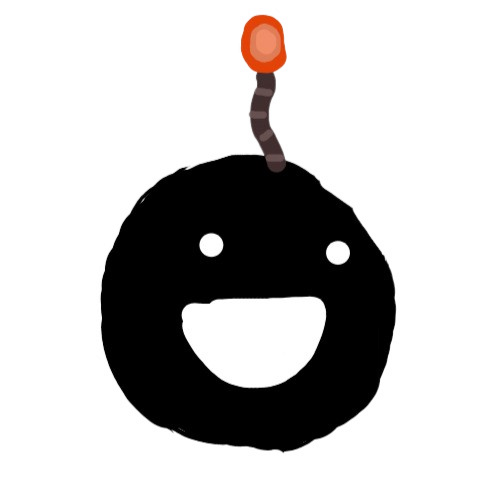
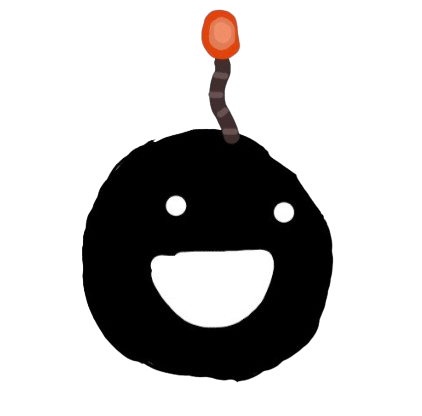
.

diff --git a/frontend/src/pages/Game.tsx b/frontend/src/pages/Game.tsx
@@ -1,14 +1,13 @@
-import React, { useEffect, useState } from "react";
+import React, { useEffect, useState, useRef } from "react";
 import { useNavigate, useSearchParams } from "react-router";
 import { GameCanvas } from "../components/GameCanvas";
 import { Leaderboard, type ScoreEntry } from "../components/Leaderboard";
-import { LivesDisplay } from "../components/LivesDisplay";
 import { settingsStore } from "../store/settingsStore";
 import { profileStore } from "../store/profileStore";
 import { useAuth } from "../hooks/useAuth";
 import { supabase } from "../lib/supabase";
 import { loadFruitAssets, FOOD_KEYS } from "../game/FruitAssets";
-import { setSpawnQueue, startMatch, setPhase, getLocalScore, getLocalLives, getCombo } from "../store/gameStore";
+import { setSpawnQueue, startMatch, setPhase, getLocalScore, getCombo } from "../store/gameStore";
 import type { SpawnEvent } from "../types/game";
 
 const START_GAP_MS = 3000;
@@ -32,9 +31,12 @@ export function Game({ bombWarning = false }: GameProps) {
   const lobbyId = searchParams.get("lobbyId") ?? "";
 
   const [scores, setScores] = useState<ScoreEntry[]>([]);
-  const [myLives, setMyLives] = useState(3);
   const [myScore, setMyScore] = useState(0);
   const [combo, setCombo] = useState(0);
+  const [comboKey, setComboKey] = useState(0);
+  const [scoreKey, setScoreKey] = useState(0);
+  const prevComboRef = useRef(0);
+  const prevScoreRef = useRef(0);
   const duration = settingsStore.get().gameDuration;
   const [timeRemaining, setTimeRemaining] = useState(duration);
 
@@ -47,7 +49,7 @@ export function Game({ bombWarning = false }: GameProps) {
     if (!lobbyId) return;
     const { data: lps } = await supabase
       .from("lobby_players")
-      .select("player_id, score, lives, eliminated_at")
+      .select("player_id, score, eliminated_at")
       .eq("lobby_id", lobbyId)
       .order("score", { ascending: false });
     if (!lps?.length) return;
@@ -69,14 +71,12 @@ export function Game({ bombWarning = false }: GameProps) {
       rank: i + 1,
       name: nameMap[lp.player_id] ?? "Unknown",
       score: lp.score,
-      hearts: lp.lives,
       dead: lp.eliminated_at !== null,
       avatarUrl: avatarMap[lp.player_id] ?? null,
     }));
     setScores(entries);
     const mine = entries.find((e) => e.id === playerId);
     if (mine) {
-      setMyLives(mine.hearts);
       setMyScore(mine.score);
     }
   }
@@ -145,11 +145,24 @@ export function Game({ bombWarning = false }: GameProps) {
   useEffect(() => {
     const id = setInterval(() => {
       setMyScore(getLocalScore());
-      setMyLives(getLocalLives());
       setCombo(getCombo());
     }, 100);
     return () => clearInterval(id);
   }, []);
+
+  useEffect(() => {
+    if (!lobbyId || !playerId) return;
+    const id = setInterval(async () => {
+      const score = getLocalScore();
+      const { error } = await supabase
+        .from('lobby_players')
+        .update({ score })
+        .eq('lobby_id', lobbyId)
+        .eq('player_id', playerId);
+      if (error) console.error('[score-sync] update failed:', error.message);
+    }, 2000);
+    return () => clearInterval(id);
+  }, [lobbyId, playerId]);
 
   useEffect(() => {
     const id = setInterval(() => {
@@ -166,6 +179,16 @@ export function Game({ bombWarning = false }: GameProps) {
   // eslint-disable-next-line react-hooks/exhaustive-deps
   }, []);
 
+  useEffect(() => {
+    if (combo > prevComboRef.current) setComboKey(k => k + 1);
+    prevComboRef.current = combo;
+  }, [combo]);
+
+  useEffect(() => {
+    if (myScore !== prevScoreRef.current) setScoreKey(k => k + 1);
+    prevScoreRef.current = myScore;
+  }, [myScore]);
+
   // Show self in leaderboard immediately even before DB scores load
   const displayScores: ScoreEntry[] =
     scores.length > 0
@@ -177,13 +200,25 @@ export function Game({ bombWarning = false }: GameProps) {
             rank: 1,
             name: profileStore.get().name || "Player",
             score: myScore,
-            hearts: myLives,
             dead: false,
           },
         ]
       : [];
 
   return (
+    <>
+    <style>{`
+      @keyframes comboPunch {
+        0%   { transform: scale(1.45); opacity: 0.6; }
+        55%  { transform: scale(0.93); opacity: 1;   }
+        100% { transform: scale(1);    opacity: 1;   }
+      }
+      @keyframes scorePunch {
+        0%   { transform: scale(1.35); }
+        55%  { transform: scale(0.96); }
+        100% { transform: scale(1);    }
+      }
+    `}</style>
     <GameCanvas bombWarning={bombWarning} onBomb={handleBomb}>
       {/* Bomb incoming warning banner */}
       {bombWarning && (
@@ -205,12 +240,37 @@ export function Game({ bombWarning = false }: GameProps) {
       </div>
 
       {/* Top Right: Player Stats */}
-      <div className="absolute top-6 right-6 flex flex-col items-end gap-2 z-10">
-        <div className="flex items-center gap-4 bg-black/40 backdrop-blur-md px-6 py-3 rounded-2xl border border-white/10">
-          <LivesDisplay lives={myLives} />
-          <div className="w-px h-8 bg-white/10 mx-2" />
+      <div className="absolute top-6 right-6 flex flex-col items-end gap-1 z-10">
+        {/* Large gradient combo counter */}
+        {combo > 0 && (
+          <div
+            key={comboKey}
+            className="font-black leading-none tracking-tighter select-none"
+            style={{
+              fontSize: '5.5rem',
+              backgroundImage: 'linear-gradient(180deg, #7A6565 0%, #D4AFAF 100%)',
+              WebkitBackgroundClip: 'text',
+              WebkitTextFillColor: 'transparent',
+              backgroundClip: 'text',
+              filter: 'drop-shadow(0 2px 12px rgba(122,101,101,0.55))',
+              animation: 'comboPunch 0.28s cubic-bezier(0.36,0.07,0.19,0.97)',
+            }}
+          >
+            {combo}x
+          </div>
+        )}
+
+        {/* Score box */}
+        <div className="flex items-center bg-black/40 backdrop-blur-md px-6 py-3 rounded-2xl border border-white/10">
           <div className="flex flex-col items-end">
-            <div className="text-4xl font-mono font-black text-white leading-none tracking-tight">
+            <div
+              key={scoreKey}
+              className="text-4xl font-mono font-black leading-none tracking-tight"
+              style={{
+                color: myScore < 0 ? '#ff6b6b' : 'white',
+                animation: 'scorePunch 0.25s ease-out',
+              }}
+            >
               {myScore.toLocaleString()}
             </div>
             <div className="text-xs font-mono text-white/50">score</div>
@@ -223,13 +283,11 @@ export function Game({ bombWarning = false }: GameProps) {
             🍎 <span className="text-white/80">10 + 3×combo</span>
           </div>
           <div className="text-xs font-mono text-white/50">
-            💣 <span className="text-white/80">−1 life</span>
+            💣 hit <span className="text-white/80">−250 pts</span>
           </div>
-          {combo > 0 && (
-            <div className="text-xs font-mono font-bold text-yellow-400">
-              {combo}x combo
-            </div>
-          )}
+          <div className="text-xs font-mono text-white/50">
+            💣 send <span className="text-white/80">75 pts</span>
+          </div>
         </div>
       </div>
 
@@ -252,5 +310,6 @@ export function Game({ bombWarning = false }: GameProps) {
         </button>
       </div>
     </GameCanvas>
+    </>
   );
 }

diff --git a/frontend/src/components/Leaderboard.tsx b/frontend/src/components/Leaderboard.tsx
@@ -1,12 +1,11 @@
 import React from 'react';
-import { Heart, Skull } from 'lucide-react';
+import { Skull } from 'lucide-react';
 
 export interface ScoreEntry {
   id: string;
   rank: number;
   name: string;
   score: number;
-  hearts: number;
   dead?: boolean;
   avatarUrl?: string | null;
 }
@@ -31,7 +30,7 @@ export function Leaderboard({ entries, localPlayerId }: LeaderboardProps) {
   );
 }
 
-function ScoreRow({ rank, name, score, hearts, isYou, dead, avatarUrl }: ScoreEntry & { isYou: boolean }) {
+function ScoreRow({ rank, name, score, isYou, dead, avatarUrl }: ScoreEntry & { isYou: boolean }) {
   return (
     <div
       className={`flex items-center gap-2 px-3 py-2 rounded-xl transition-colors ${
@@ -64,26 +63,10 @@ function ScoreRow({ rank, name, score, hearts, isYou, dead, avatarUrl }: ScoreEn
         {name}
       </span>
 
-      {/* Score + hearts stacked */}
+      {/* Score */}
       <div className="flex flex-col items-end gap-0.5">
         <span className="font-mono text-xs text-white/90">{score.toLocaleString()}</span>
-        <div className="flex gap-0.5">
-          {dead ? (
-            <Skull size={10} className="text-destructive" />
-          ) : (
-            [...Array(3)].map((_, i) => (
-              <Heart
-                key={i}
-                size={8}
-                className={
-                  i < hearts
-                    ? 'fill-primary text-primary'
-                    : 'fill-transparent text-white/20'
-                }
-              />
-            ))
-          )}
-        </div>
+        {dead && <Skull size={10} className="text-destructive" />}
       </div>
     </div>
   );

diff --git a/frontend/src/store/gameStore.ts b/frontend/src/store/gameStore.ts
@@ -20,7 +20,6 @@ const state = {
   phase: 'lobby' as GamePhase,
   lastTick: 0,
   localScore: 0,
-  localLives: 3,
   comboCount: 0,
   lastSliceTime: 0,
 };
@@ -40,13 +39,11 @@ export function startMatch(now: number): void {
   state.popups = [];
   state.phase = 'playing';
   state.localScore = 0;
-  state.localLives = 3;
   state.comboCount = 0;
   state.lastSliceTime = 0;
 }
 
 export function getLocalScore(): number { return state.localScore; }
-export function getLocalLives(): number { return state.localLives; }
 export function getCombo(): number { return state.comboCount; }
 export function getPopups(): ScorePopup[] { return state.popups; }
 
@@ -73,9 +70,9 @@ export function tick(now: number, screen: { w: number; h: number }): Fruit[] {
       const sliceAngle = fruit.collidesWith(trailStore.points, trailStore.canvasW, trailStore.canvasH);
       if (sliceAngle !== null) {
         if (fruit.type === 'bomb') {
-          state.localLives = Math.max(0, state.localLives - 1);
+          state.localScore -= 250;
           state.comboCount = 0;
-          state.popups.push({ x: fruit.x, y: fruit.y, points: -1, startTime: now });
+          state.popups.push({ x: fruit.x, y: fruit.y, points: -250, startTime: now });
         } else {
           state.comboCount += 1;
           const points = 10 + 3 * state.comboCount;

diff --git a/frontend/src/hooks/useGameLoop.ts b/frontend/src/hooks/useGameLoop.ts
@@ -36,8 +36,8 @@ export function useGameLoop(
             ctx.textBaseline = 'middle';
             ctx.shadowColor = 'rgba(0,0,0,0.7)';
             ctx.shadowBlur = 6;
-            ctx.fillStyle = popup.points === -1 ? '#ff3333' : '#FFD700';
-            ctx.fillText(popup.points === -1 ? '−1 LIFE' : `+${popup.points}`, 0, 0);
+            ctx.fillStyle = popup.points < 0 ? '#ff3333' : '#FFD700';
+            ctx.fillText(popup.points < 0 ? `${popup.points}` : `+${popup.points}`, 0, 0);
             ctx.restore();
           }
         }